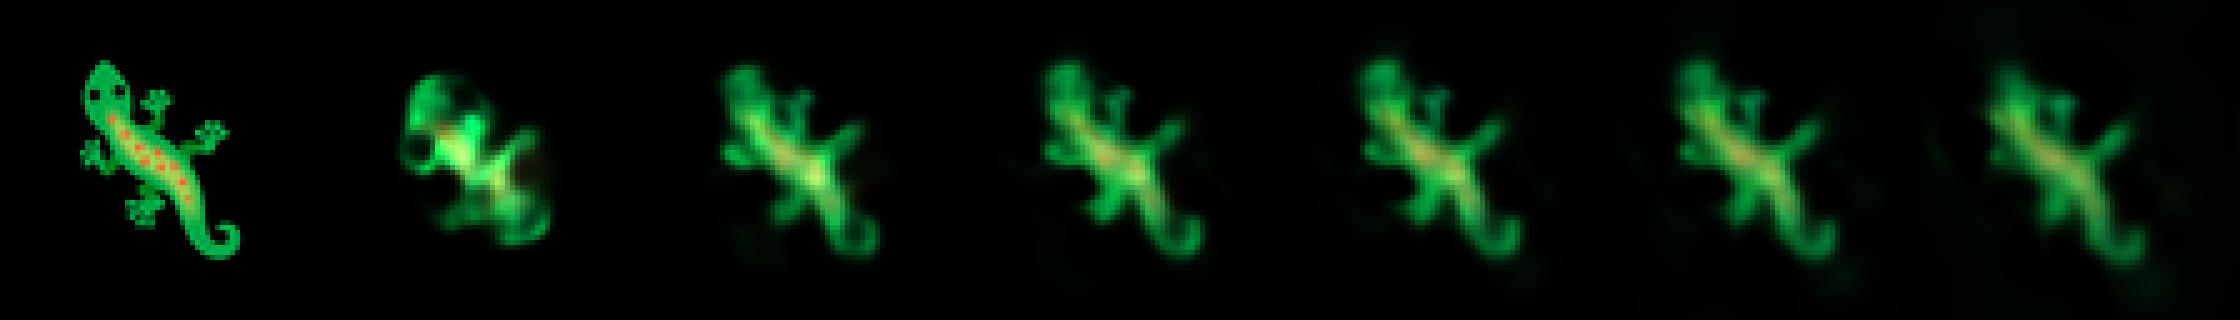
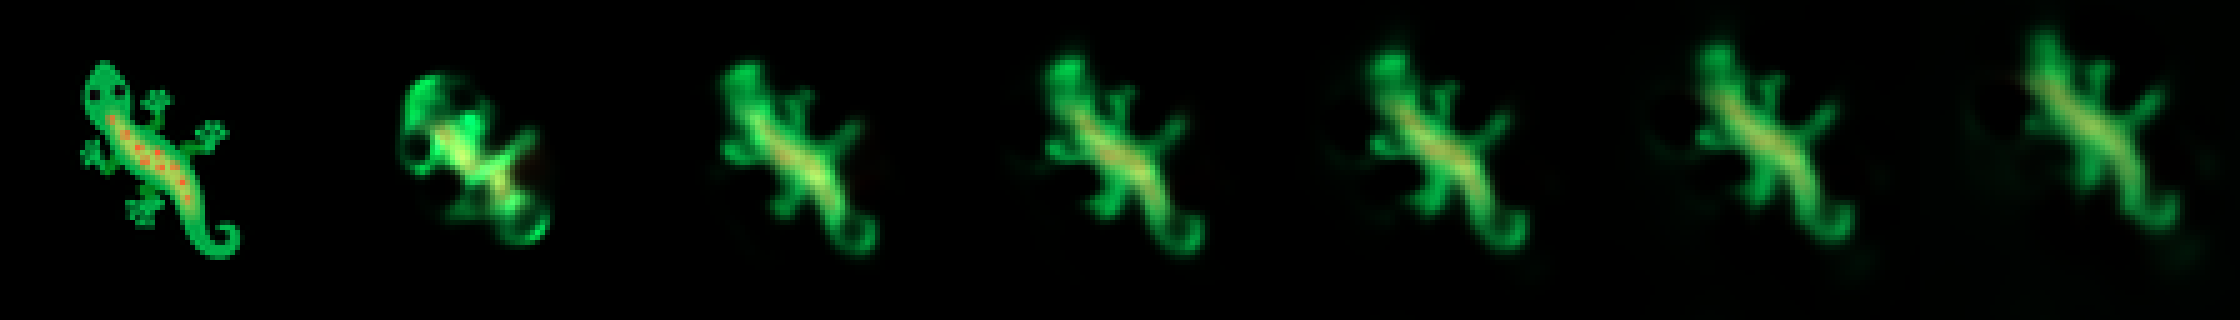
Split the pool: half young, half old
One reseed rate cannot serve both ends, and the last run measured the trade
rather than escaping it -- rare reseeding took h512 from 0.0054 to 0.0032 and
h16 from 0.0032 to 0.0070, because growing and holding were competing for the
same pool slots.

So they get different slots. Half the pool is retired at 96 steps, so there is
always a field partway through being built; half runs to 2048, so there is
always one that has been standing for hundreds. Every batch draws one from
each band, and the two objectives stop taking turns.

The run reports both ages separately, so whether the bands are actually
holding their ranges is visible rather than assumed. polar3-onepool keeps the
single-band run for the comparison.

Claude-Session: https://claude.ai/code/session_01WKrMnD7YksARi9mdYUD5iv

diff --git a/train/train.py b/train/train.py
@@ -239,6 +239,15 @@ def main():
                          "window*batch*reseed_every/2. At 32x2x8 that is 256, "
                          "which is what it sat at while the far horizons "
                          "refused to move")
+    ap.add_argument("--young-frac", type=float, default=0.5,
+                    help="fraction of the pool kept young. One reseed rate cannot "
+                         "serve both ends: rare reseeding taught the shape to "
+                         "hold (h512 0.0054 -> 0.0032) and to grow worse (h16 "
+                         "0.0032 -> 0.0070), because growing and holding were "
+                         "competing for the same pool slots. Splitting the pool "
+                         "puts one of each in every batch instead.")
+    ap.add_argument("--young-age", type=int, default=96,
+                    help="steps a state in the young half may live")
     ap.add_argument("--reseed-policy", default="oldest", choices=["oldest", "worst"],
                     help="which pooled state goes back to the seed. Growing NCA "
                          "retires the worst, to stop a pool filling with "
@@ -303,6 +312,14 @@ def main():
     # than a couple of windows, nothing is ever asked to still be a lizard at
     # step 500. Age is tracked so the reseeding can be driven by it.
     ages = torch.zeros(a.pool, dtype=torch.long)
+    # The pool is two bands, not one. The young half is retired quickly, so
+    # there is always a field partway through being built; the old half runs to
+    # --max-age, so there is always one that has been standing for hundreds of
+    # steps. Every batch draws from both, and growing and holding stop being
+    # the same slot.
+    n_young = max(1, min(a.pool - 1, int(a.pool * a.young_frac)))
+    span = torch.full((a.pool,), a.max_age, dtype=torch.long)
+    span[:n_young] = a.young_age
     start_it = 0
 
     ck = os.path.join(run, "ckpt.pt")
@@ -320,7 +337,8 @@ def main():
                                    + [f"h{h}" for h in HORIZONS] + ["age", "secs"])
 
     print(f"run {a.name}: orders {orders}  C {a.channels}  grid {a.grid}  "
-          f"window {a.window}  batch {a.batch}  pool {a.pool}")
+          f"window {a.window}  batch {a.batch}  pool {a.pool} "
+          f"({n_young} young to {a.young_age}, {a.pool - n_young} old to {a.max_age})")
     print(f"  {sum(p.numel() for p in model.parameters())} trainable numbers")
 
     t0 = time.time()
@@ -347,7 +365,10 @@ def main():
         except (json.JSONDecodeError, KeyError, TypeError):
             pass
     for it in range(start_it, a.iters):
-        idx = torch.randint(0, a.pool, (a.batch,))
+        # draw from both bands, so a batch always holds one of each
+        half = max(1, a.batch // 2)
+        idx = torch.cat([torch.randint(0, n_young, (half,)),
+                         torch.randint(n_young, a.pool, (a.batch - half,))])
         batch = pool[idx].clone()
         # The worst state in the batch goes back to the seed, so the model has
         # to keep working from scratch -- Growing NCA's trick. But the RATE
@@ -370,7 +391,7 @@ def main():
             ages[idx[pick]] = 0
         # and retire a state once it has lived its full span, so the pool holds
         # a spread of ages rather than drifting to all-old or all-young
-        stale = ages[idx] >= a.max_age
+        stale = ages[idx] >= span[idx]
         if stale.any():
             batch[stale] = seed
             ages[idx[stale]] = 0
@@ -446,7 +467,8 @@ def main():
                           HORIZONS)
             print(f"  it {it:6d}  loss {loss.item():.5f}  best {best:.5f}  "
                   f"lam {lam:+.2f}  force {f:6.1f}  beta {b:.2f}  "
-                  f"age~{int(ages.float().mean())}  "
+                  f"age~{int(ages[:n_young].float().mean())}/"
+                  f"{int(ages[n_young:].float().mean())}  "
                   f"horizon {'/'.join(f'{v:.4f}' for v in hz)}"
                   f"{' *best*' if score <= best_h else ''}  "
                   f"{secs / max(it - start_it + 1, 1):.2f}s/it", flush=True)
